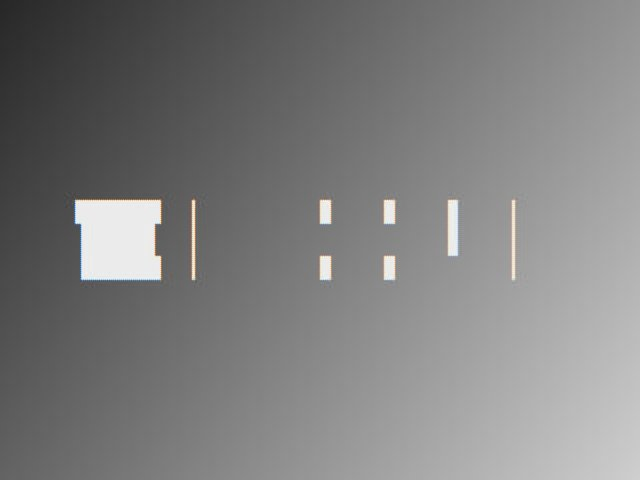
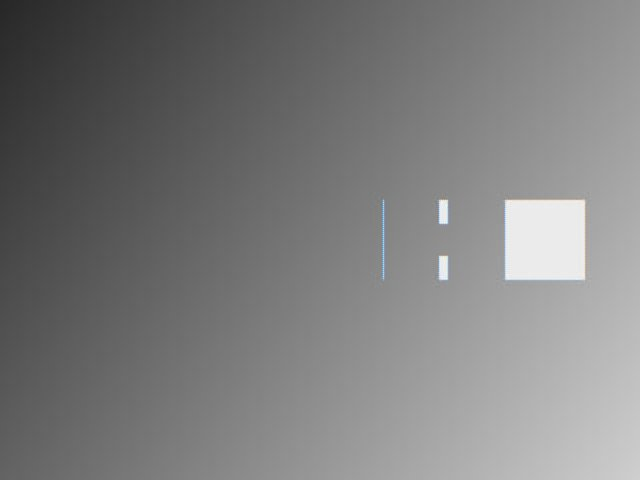
ESP32-CAM: MJPEG relay + simulator for record.py, header resent on REFR, thin-edge detector, record/replay round-trip test
- tools/esp_mjpeg_relay.py, tools/esp_tile_sim.py (end to end through KR's record_esp32: 223 JPEGs at 14.9 fps)
- Fix: tiles sent right after REFR were dropped because the JPEG header had not arrived; the firmware now resends it at once
- Detector: spread fingerprint pieces + outlier trigger (thin edges); quiet-scene refresh 4 tiles/frame (compiled, not flashed)
- tests: record -> replay round trip for the ESP32 view (the T0 test PR #3 lacked), detector model; 72 pass
- docs/ESP32-CAM.md, weekly log and report updated; config.toml esp32_ip -> 127.0.0.1 (relay)

diff --git a/tests/test_record_replay_esp32.py b/tests/test_record_replay_esp32.py
@@ -1,0 +1,65 @@
+"""T0: record-then-replay round trip for the ESP32 view (plan section 5, Week 1 / KR): frames recorded by tools/record.py's record_esp32 from an MJPEG stream
+come back byte for byte from tools/replay.py's mock ESP32 server, and the metadata lists every file. Uses the MJPEG relay with a fake receiver as the source
+(the same path the GC2145 boards take), on ephemeral ports."""
+import http.client
+import itertools
+import json
+import threading
+import time
+import urllib.request
+
+import numpy as np
+
+from tools import record, replay
+from tools.esp_mjpeg_relay import make_server
+
+
+class FakeReceiver:
+    def __init__(self):
+        self.n = itertools.count(1)
+
+    def latest(self):
+        i = next(self.n)
+        yy, xx = np.mgrid[0:60, 0:80]
+        return ((xx * 3 + yy * 2 + i * 17) % 256).astype(np.uint8)[:, :, None].repeat(3, axis=2), i, 0.0
+
+
+def _read_frames(resp, count, timeout=10):
+    buf, frames, t0 = b"", [], time.time()
+    while len(frames) < count and time.time() - t0 < timeout:
+        buf += resp.read(512)
+        a, b = buf.find(b"\xff\xd8"), buf.find(b"\xff\xd9")
+        if a != -1 and b > a:
+            frames.append(buf[a:b + 2])
+            buf = buf[b + 2:]
+    return frames
+
+
+def test_record_then_replay_gives_identical_frames(tmp_path, monkeypatch):
+    src = make_server(FakeReceiver(), port=0, fps=30, host="127.0.0.1")
+    threading.Thread(target=src.serve_forever, daemon=True).start()
+    real_urlopen = urllib.request.urlopen
+    # record_esp32 hardcodes port 81 (the stock sketch); point it at our ephemeral test server
+    monkeypatch.setattr(record.urllib.request, "urlopen", lambda req, timeout=None: real_urlopen(
+        urllib.request.Request(req.full_url.replace(":81/", ":%d/" % src.server_address[1])), timeout=timeout))
+    (tmp_path / "esp32").mkdir()
+    threading.Thread(target=record.record_esp32, args=("127.0.0.1", tmp_path), daemon=True).start()
+    time.sleep(2.0)
+    src.shutdown()
+    meta = [json.loads(line) for line in open(tmp_path / "esp32_meta.jsonl")]
+    assert len(meta) >= 5
+    recorded = [(tmp_path / "esp32" / m["file"]).read_bytes() for m in meta]
+    assert [m["seq"] for m in meta] == list(range(len(meta)))  # no gaps in the sequence numbers
+    assert all(m["t_local"] <= n["t_local"] for m, n in zip(meta, meta[1:]))  # timestamps do not go backwards
+
+    srv = replay.ThreadingHTTPServer(("127.0.0.1", 0), replay.MJPEGHandler)
+    srv.data_dir = tmp_path
+    threading.Thread(target=srv.serve_forever, daemon=True).start()
+    try:
+        c = http.client.HTTPConnection("127.0.0.1", srv.server_address[1], timeout=5)
+        c.request("GET", "/stream")
+        played = _read_frames(c.getresponse(), 3)
+        c.close()
+    finally:
+        srv.shutdown()
+    assert played == recorded[:3]

diff --git a/tools/esp_tile_sim.py b/tools/esp_tile_sim.py
@@ -12,7 +12,7 @@ import time
 import cv2
 import numpy as np
 
-from sentry.espcam import HDR, H, T_END, T_HDR, T_TILES, TH, TILES_X, TW, W, planar
+from sentry.espcam import HDR, H, T_END, T_HDR, T_TILES, TH, TILES_X, TW, W, planar, tile_dirty
 
 NT = TILES_X * (H // TH)
 
@@ -45,6 +45,7 @@ def main():
     rx.bind(("0.0.0.0", a.port + 1))
     rx.settimeout(0.001)
     prev = np.zeros((H, W), np.uint8)
+    last_sent = np.zeros(NT, np.int64)
     header, t_hdr, fid, t0 = None, 0.0, 0, time.perf_counter()
     while time.perf_counter() - t0 < a.seconds:
         t_frame = time.perf_counter()
@@ -53,6 +54,7 @@ def main():
                 d, _ = rx.recvfrom(64)
                 if d.startswith(b"REFR"):
                     prev[:] = 0xFF  # everything counts as changed again
+                    t_hdr = 0.0     # and the header is resent at once, like the firmware
         except socket.timeout:
             pass
         cur = scene(t_frame - t0)
@@ -61,11 +63,21 @@ def main():
         for idx in range(NT):
             y, x = (idx // TILES_X) * TH, (idx % TILES_X) * TW
             c, p = cur[y:y + TH, x:x + TW], prev[y:y + TH, x:x + TW]
-            if np.abs(c.astype(int) - p.astype(int)).mean() >= 16:
+            if tile_dirty(c, p):
                 hdr, scan = jpeg_parts(c)
                 header = header or hdr
                 entries.append((idx, scan))
                 prev[y:y + TH, x:x + TW] = c
+                last_sent[idx] = fid
+        queued = {i for i, _ in entries}
+        for idx in [i for i in np.argsort(last_sent) if i not in queued][:2]:  # like the firmware: always refresh the two oldest tiles
+            idx = int(idx)
+            y, x = (idx // TILES_X) * TH, (idx % TILES_X) * TW
+            hdr, scan = jpeg_parts(cur[y:y + TH, x:x + TW])
+            header = header or hdr
+            entries.append((idx, scan))
+            prev[y:y + TH, x:x + TW] = cur[y:y + TH, x:x + TW]
+            last_sent[idx] = fid
         if header and time.perf_counter() - t_hdr > 1:
             tx.sendto(HDR.pack(b"ST", T_HDR, 0, fid, ms, len(header), 0) + header, (a.host, a.port))
             t_hdr = time.perf_counter()

diff --git a/tests/test_tile_detect.py b/tests/test_tile_detect.py
@@ -1,0 +1,48 @@
+"""T0: the Python mirror of the ESP32 change detector (sentry/espcam.py: fingerprint / tile_dirty, same rules as esp32/tile_stream/tile_stream.ino: 8 rows x four 4-byte pieces per
+64x32 tile; dirty when the mean difference >= 16 or >= 8 samples differ by >= 48). The firmware cannot run here, so these tests check the properties we rely on:
+sensor noise and flicker do not trigger it, and thin moving edges do. If you change the constants in the firmware, change them in sentry/espcam.py too."""
+import numpy as np
+from sentry.espcam import MEAN_THR, OUT_COUNT, OUT_DIFF, TH, TW, fingerprint, tile_dirty as dirty  # noqa: F401
+
+
+def _bg(rng):
+    return np.clip(100 + rng.normal(0, 3, (TH, TW)), 0, 255)
+
+
+def test_sensor_noise_is_not_motion():
+    rng = np.random.default_rng(0)
+    base = _bg(rng)
+    false = sum(dirty(np.clip(base + rng.normal(0, 8, (TH, TW)), 0, 255), np.clip(base + rng.normal(0, 8, (TH, TW)), 0, 255)) for _ in range(2000))
+    assert false / 2000 < 0.005
+
+
+def test_small_flicker_is_not_motion_but_a_big_light_change_is():
+    rng = np.random.default_rng(1)
+    base = _bg(rng)
+    assert not dirty(base + 10, base)
+    assert dirty(base + 25, base)
+
+
+def test_a_thin_vertical_edge_is_seen_wherever_it_is():
+    rng = np.random.default_rng(2)
+    base = _bg(rng)
+    for width in (14, 20):
+        for x in range(0, TW - width + 1):
+            now = base.copy()
+            now[:, x:x + width] = 235  # an object edge covering only part of the tile
+            assert dirty(now, base), (width, x)
+
+
+def test_a_thin_horizontal_edge_is_seen_wherever_it_is():
+    rng = np.random.default_rng(3)
+    base = _bg(rng)
+    for y in range(0, TH - 4 + 1):
+        now = base.copy()
+        now[y:y + 4, :] = 235
+        assert dirty(now, base), y
+
+
+def test_an_unchanged_tile_is_clean():
+    rng = np.random.default_rng(4)
+    base = _bg(rng)
+    assert not dirty(base, base)

diff --git a/sentry/espcam.py b/sentry/espcam.py
@@ -22,6 +22,22 @@ T_TILE, T_HDR, T_END, T_FULL, T_TILES = 0, 1, 2, 3, 4
 PORT = 5600
 
 
+# Change detector, a Python mirror of esp32/tile_stream/tile_stream.ino (sampleTile / tileDirty); tests/test_tile_detect.py checks its properties and tools/esp_tile_sim.py uses it.
+MEAN_THR, OUT_DIFF, OUT_COUNT = 16, 48, 8
+
+
+def fingerprint(tile):
+    """8 rows (every 4th) x four 4-byte pieces at columns 4, 20, 36, 52 of a 64x32 tile -> 8 x 16 samples."""
+    rows = tile[0:32:4]
+    return np.concatenate([rows[:, 4 + 16 * s:8 + 16 * s] for s in range(4)], axis=1).astype(np.int32)
+
+
+def tile_dirty(now, old):
+    """Changed when the mean difference of the fingerprints is large, or enough single samples differ strongly (a thin edge covering part of the tile)."""
+    d = np.abs(fingerprint(now) - fingerprint(old))
+    return bool(d.mean() >= MEAN_THR or (d >= OUT_DIFF).sum() >= OUT_COUNT)
+
+
 def unplanar(t):
     """The firmware sends each Bayer tile as four colour planes in the quadrants of a 64x32 image (R, G1, G2, B, each 32x16); put it back."""
     out = np.empty((TH, TW), np.uint8)

diff --git a/reports/DoanQuocKien/week-01.md b/reports/DoanQuocKien/week-01.md
@@ -9,12 +9,13 @@
 - Tools: `tools/jetbot_status.py` (battery, Wi-Fi, containers), `tools/fetch_models.py` (re-ID and face weights, safe loading), `tools/gpu_pipeline_check.py`, `tools/make_markers.py`, `tools/esp_serial.py`, `tools/esp_tile_rx.py`, `tools/fetch_esp_jpeg.py` – PR #2
 - Environment: conda env `sentry` (Python 3.12, torch 2.9.1+cu128, onnxruntime-gpu 1.23.2), install paths for GPU laptop / CPU laptop / Jetson in `docs/Setup.md` – PR #1, PR #2
 - Hardware decisions and shopping lists (`docs/Hardware.md`), printable calibration targets (`assets/print/`), plan updates (map-based coverage search, hold-and-recenter instead of orbiting, ArUco localization, USB speaker + offline TTS) – PR #2
+- **MJPEG relay and fake ESP32 (2026-10-10):** `tools/esp_mjpeg_relay.py` serves the tile stream as `http://127.0.0.1:81/stream` so KR's `record.py` / `replay.py` work with the GC2145 boards (D1 recording needs it); `tools/esp_tile_sim.py` simulates the board; found and fixed a flaw where the full-refresh after `REFR` was discarded because the JPEG header had not arrived yet; the missing record-then-replay round-trip test for the ESP32 view added (`tests/test_record_replay_esp32.py`); change-detector improvements (thin edges, faster quiet refresh) – PR #2
 - **ESP32-CAM (unplanned):** both camera modules turned out to be GC2145 (no hardware JPEG), so the planned HTTP MJPEG stream is impossible. Built a 640x480 stream in software (raw Bayer capture trick, sensor timing registers, changed-tile UDP stream), laptop receiver `sentry/espcam.py` with white balance, 5 tests, PlatformIO project for KR's CameraWebServer sketch, `docs/ESP32-CAM.md`, plan risks 12-13 – PR #2
 
 ## Tests run
 | Tier | Command | Result | Evidence |
 | :-- | :-- | :-- | :-- |
-| T0 | `pytest -m "not gpu and not hil"` | 64 passed | week-01/pytest.log |
+| T0 | `pytest -m "not gpu and not hil"` | 72 passed | week-01/pytest.log |
 | T2 | Video uplink, real camera, 60 s, laptop hotspot 2.4 GHz | 20.0 fps, 0 of 1200 frames missing, one-way latency p50 13 / p95 53 ms | week-01/link_test_2026-10-04.txt (section N) |
 | T2 | Control link: ping and UDP 1.5 / 6 Mbit/s | 0 % loss | week-01/link_test_2026-10-04.txt |
 | T2 | Watchdog, 5 cycles (`robot_udp --dry-run` on the robot) | stop 305-315 ms after the last packet | week-01/link_test_2026-10-04.txt (section O) |
@@ -35,6 +36,7 @@
 - **Latency target missed by 3 ms (53 vs 50 ms)** on the JetBot video path; to re-measure with the final setup.
 - **No floor driving yet:** the e-stop is verified wheels-off only; first floor test with the e-stop armed is still to do (battery check first, >= 11.1 V).
 - **Campus Wi-Fi is bad** (10 KB/s on some days) and slows downloads; the laptop hotspot only works when the laptop's own Wi-Fi shares its channel or is off.
+- **Unflashed firmware changes (2026-10-10):** the new change detector, faster quiet refresh and header-on-REFR compile and are tested in Python/simulation, but the board was unreachable; flash `esp32/tile_stream` and re-measure before D1 (TODO).
 - **Merge coordination:** HNHL's branch has no PR yet and will conflict in `.gitignore`, the plan and `requirements-base.txt`; KR's PR #3 has no tests for record / replay / sim_robot.
 - The weak hotspot password (8 characters) should be changed; update the robot's saved profile first while it is connected.
 
@@ -43,6 +45,7 @@
 - Week 2 (DQK): `tools/calibrate_fisheye.py` (target < 1.0 px) and `tools/calibrate_motion.py`; T1 reprojection error, T2 motion repeatability (5 runs each of straight 1 m and 90° turn).
 - Decide the camera: keep the GC2145 tile stream or order an OV2640; update the plan accordingly.
 - First floor driving with the e-stop armed, in daylight at low speed.
+- Flash the updated `esp32/tile_stream`, run `tools/esp_mjpeg_relay.py` + `tools/record.py D1` against the real board before the D1 recording.
 - Re-measure video latency (target p95 < 50 ms), optionally install `estop.py` as a systemd service.
 
 ## Hours

diff --git a/docs/ESP32-CAM.md b/docs/ESP32-CAM.md
@@ -33,6 +33,8 @@ UDP, little endian. The laptop broadcasts `HELO` to port 5601 once a second; the
 | 2 | frame end: `a` = tiles sent, `b` = tiles that were changed; the laptop answers `ACK` + frame_id + esp_ms (the ESP32 prints the round trip) |
 | 0, 3 | single tile / complete JPEG tile (legacy, handled by the receiver) |
 
+`REFR`: the ESP32 forgets what the laptop has, resends the JPEG header at once, then every tile (a receiver started late has a complete picture after about 0.2 s in the simulator).
+
 Use it from Python:
 
 ```python
@@ -63,7 +65,8 @@ It can be fed from `record.py` like any other stream by saving the frames `lates
 - **Fixed camera only.** A moving or shaking camera makes every tile change; throughput then falls to 9-10 fps (full-load test) and large moving regions refresh at about 5 fps.
 - **Tuned on one board.** The second board (ESP32-D0WD-V3 rev 3.1) lost its Wi-Fi uplink as soon as the camera ran, on every setting we tried (not power, memory, encoder, channel width or camera clock; cause unknown, same camera module). The first board works. If a board shows `send-fail` and missing acks only while the camera runs, swap boards.
 - **Wi-Fi.** Hotspot channel 13 worked on the first board with country `VN` (channels 1-13) and 20 MHz width set in the firmware. Laptop Wi-Fi and laptop hotspot on different bands make the radio time-slice (95 % ping loss); keep the laptop's own Wi-Fi on the same 2.4 GHz channel, or off.
-- **Ghost slivers.** A tile is only resent when its fingerprint changes by a mean of 16 or more, so a thin edge that covers a tile only partly can leave a stale sliver until the background refresh reaches that tile (2 tiles per frame, so up to about 5 s). Lower `MOTION_THR` (noisier) or refresh faster if this matters for detection.
+- **Ghost slivers (reduced, 2026-10-10).** A thin edge that covers a tile only partly used to leave a stale sliver for up to about 5 s. The detector now also flags a tile when 8 or more fingerprint samples differ by 48 or more (pieces spread over the tile, gaps at most 12 px: an edge 14 px wide is caught at every position, tested in `tests/test_tile_detect.py`), and while the scene is quiet 4 tiles per frame are refreshed (a full refresh in about 2.5 s). Hairline slivers can still appear behind a fast edge until the refresh reaches them.
+- **Flash status of the 2026-10-10 firmware changes:** the new detector, the faster quiet refresh and "resend the header on `REFR`" compile and are mirrored by `sentry/espcam.py`, the tests and the simulator, but they were written while the board was unreachable and are **not flashed or measured on a camera yet**. Flash `esp32/tile_stream`, run `python -m tools.esp_tile_rx` for a minute and compare with the numbers above before relying on them (the previous firmware, commit 065b761, is the measured one).
 - **Colour** is only gray-world white balanced; no colour-correction matrix.
 - **Power:** the camera needs a stable 5 V (a phone charger did not change the results; the laptop USB port is fine).
 - The `GC2145` driver comment says the ESP32 can only take about 15 MHz PCLK: it is also why raw at 1 byte per pixel (half the data of YUV) is what makes 15 fps possible.
